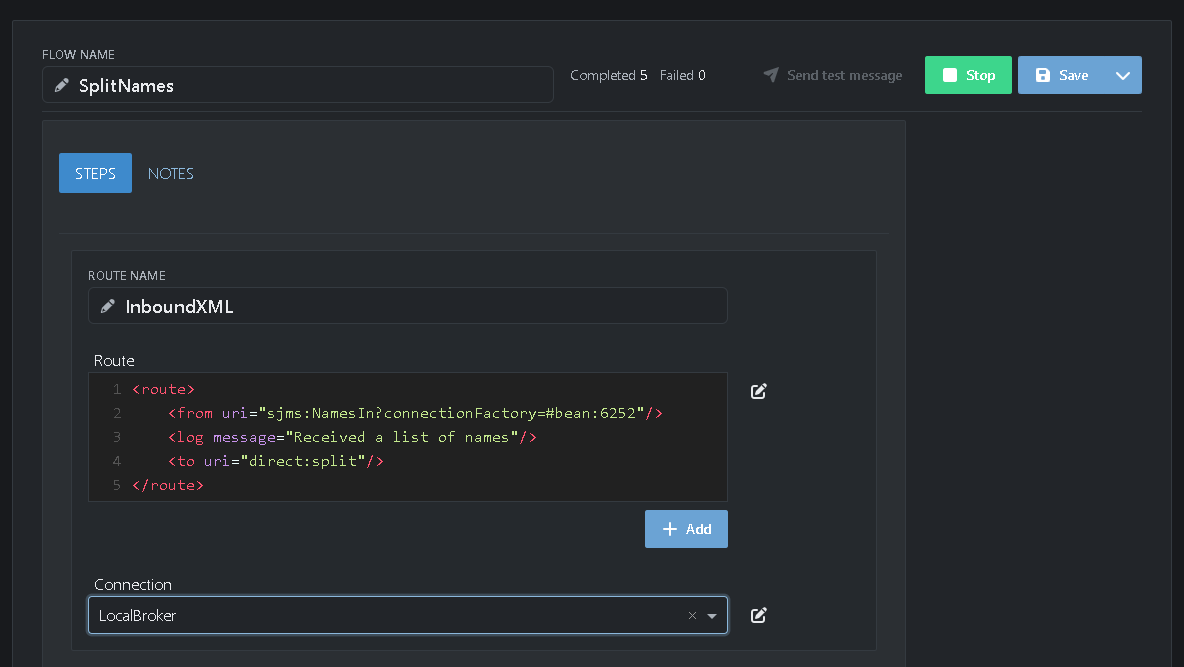
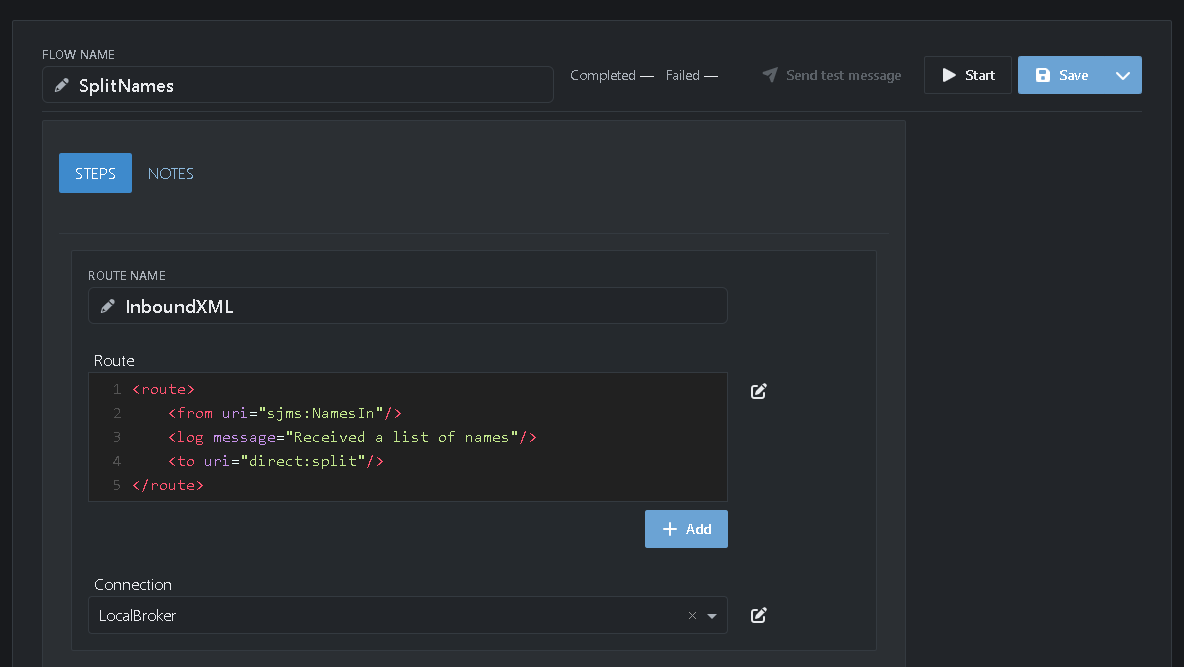
Update v6 Tutorials 5-10 after re-running them
- Tutorial 5 is now "Manage the broker": the Gateway creates the
  broker on first start, so it shows the broker's status and stats,
  stopping and starting it and its broker.xml instead of deleting and
  creating it; deleting a queue with messages now asks to confirm
- Tutorial 7: filter the log on "Received file names", as the route
  itself also contains "Received file"
- Tutorial 8: a route's JMS endpoints use the connection chosen for
  the route, so the connection id and #bean: are gone
- Tutorial 9 (Running scripts) is new: a Scheduler with a Simple and
  a Groovy script
- Tutorial 10: start a Flow with /install, which also works after a
  restart of the Gateway; explain the stats counters
- New screenshots for the counters, the log viewer and the routes

diff --git a/tutorials/v6/tutorial5/README.md b/tutorials/v6/tutorial5/README.md
@@ -1,21 +1,22 @@
-# Tutorial 5: Create a new broker
+# Tutorial 5: Manage the broker
 
-The Gateway has a message broker built in. In this tutorial you get to know it: you create a broker, add a queue, send a message to it and read the message back.
+The Gateway has a message broker built in, and creates one for you the first time it starts. In this tutorial you get to know it: you check that it runs, stop and start it, look at its configuration file, add a queue, send a message to it and read the message back.
 
 **What you'll do:**
 
 1. Look at the broker that comes with the Gateway
-2. Remove it and create a new one
-3. Create a queue
-4. Send a message to the queue
-5. Browse the message
+2. Stop and start the broker
+3. Look at the broker file
+4. Create a queue
+5. Send a message to the queue
+6. Browse the message
 
 It takes about 10 minutes.
 
 ## Before you start
 
 * Complete the [Quick start](https://github.com/assimbly/gateway/wiki/quick-start). You only need the Gateway running.
-* Use a Gateway you're trying out. In this tutorial you remove the broker and create it again. Don't do that on a Gateway that handles real messages.
+* Use a Gateway you're trying out. In this tutorial you stop the broker for a moment. Don't do that on a Gateway that handles real messages.
 
 ## How it works
 
@@ -30,46 +31,58 @@ A **broker** is a message server. Instead of sending a message straight to anoth
 
 ## Step 1: Look at the broker that comes with the Gateway
 
-Go to **Broker → Manage**. When the Gateway starts for the first time, it creates a broker called *default* for you:
+Go to **Broker → Manage**. When the Gateway starts for the first time, it creates a broker called *default* for you: an ActiveMQ Artemis broker that starts by itself whenever the Gateway starts.
 
 ![The default broker](01-broker-manage.png)
 
-* The green buttons under **Status** show that the broker is running. With them you can **Stop** and **Restart** the broker.
-* **Messages** shows how many messages are waiting on the broker, over all its queues.
-* Click **Edit** to see its settings, or **⋮** → **Info** for a short summary.
+* The green buttons under **Status** show that the broker is running.
+* **Consumers** shows how many receivers are connected, for example running Flows that read from a queue. **Messages** shows how many messages are waiting, over all queues.
+* Click the **Stats** icon for details such as the broker version, its uptime and the number of connections:
 
-## Step 2: Remove the broker
+![The broker stats](02-broker-stats.png)
 
-Suppose you want to start over, or switch to the other type of broker. Then you remove the broker and create a new one:
+* Click **⋮** (*More actions*) → **Info** for a short summary of the broker's settings.
 
-1. Click **⋮** (*More actions*) in the row of *default* and choose **Delete**.
-2. Confirm with **Delete**.
+## Step 2: Stop and start the broker
 
-The page is now empty and invites you to add your first broker:
+1. Click **Stop** (the square) under **Status**.
 
-![Add your first Broker](02-add-first-broker.png)
+The broker stops. Only the **Start** button (the triangle) is left, and **Stats** is empty. While the broker is stopped, no one can put messages on it or take them off: Flows that use a queue fail until the broker is back.
 
-## Step 3: Create a new broker
+2. Click **Start**.
 
-1. Click **Add**.
-2. Fill in the form:
-   * **Name:** `default`
-   * **Autostart:** `true`. The broker then starts by itself whenever the Gateway starts.
-   * **Type:** `ActiveMQ Artemis`. This is the default; choose `ActiveMQ Classic` if you need the older broker.
-   * **Configuration Type:** `File`. The broker uses the configuration file shown under **Configuration**.
-   * **Configuration:** keep the example. It's a working `broker.xml` for Artemis.
+After a few seconds the green buttons are back. The messages that were waiting are still there: the broker keeps them on disk.
 
-![Create the broker](03-create-broker.png)
+> **Restart** (the circular arrows) stops the broker and starts it again in one go. You need it after you change the broker file, as you'll see in the next step.
 
-3. Click **Save**.
+## Step 3: Look at the broker file
 
-The broker appears in the list again, with green **Status** buttons: it's running.
+1. Click **Edit** in the row of *default*.
 
-> **Embedded or File?** **Embedded** starts a simple broker on localhost without a configuration file. It's handy for a quick test. **File** gives you full control: the **Configuration** field holds the broker file (`broker.xml` for Artemis, `activemq.xml` for Classic). If you leave it empty, the Gateway creates a default file. See the [Artemis](https://activemq.apache.org/components/artemis/documentation/latest/configuration-index.html) or [ActiveMQ Classic](https://activemq.apache.org/components/classic/documentation) documentation for all settings.
+![The broker file](03-broker-file.png)
+
+The form shows the broker's settings:
+
+* **Autostart** `true`: the broker starts whenever the Gateway starts.
+* **Type** `ActiveMQ Artemis`. The other option is `ActiveMQ Classic`.
+* **Configuration Type** `File`: the broker uses the configuration file below.
+* **Configuration**: the broker file itself, `broker.xml`. The Gateway keeps it in the `broker` folder of its home folder (`~/.assimbly/broker/broker.xml`).
+
+Some useful parts of the file:
+
+| Element | What it sets |
+|---------|--------------|
+| `<acceptors>` | The ports clients connect to, for example `61616` for JMS (the port you'll use in [Tutorial 6](https://github.com/assimbly/gateway/wiki/tutorial6-message-queueing)) and `5672` for AMQP. |
+| `<address-settings>` | What happens to messages that can't be delivered or expire, for example which dead letter queue they go to. |
+| `<addresses>` | Queues that always exist, such as `DLQ` (the dead letter queue) and `ExpiryQueue`. |
+
+To change the broker, edit the file and click **Save**. The Gateway checks that the file is valid before it saves it. The broker reads the file when it starts, so click **Restart** on **Broker → Manage** afterwards. For now, click **Cancel** without changing anything.
+
+> **Embedded or File?** **Embedded** starts a simple broker on localhost without a configuration file. It's handy for a quick test. **File** gives you full control. See the [Artemis](https://activemq.apache.org/components/artemis/documentation/latest/configuration-index.html) or [ActiveMQ Classic](https://activemq.apache.org/components/classic/documentation) documentation for all settings.
 
 ## Step 4: Create a queue
 
-1. Go to **Broker → Endpoints**. The **Queues** tab lists the queues on the broker. The example configuration already defines two: `DLQ` (the dead letter queue) and `ExpiryQueue`.
+1. Go to **Broker → Endpoints**. The **Queues** tab lists the queues on the broker. The broker file already defines two: `DLQ` (the dead letter queue) and `ExpiryQueue`.
 2. Click **Add**.
 3. Set **Name** to `HelloQueue`.
 
@@ -107,18 +120,18 @@ Browsing only *looks* at the messages: they stay on the queue until a receiver p
 
 ## Clean up (optional)
 
-Want to remove *HelloQueue*? In **Broker → Endpoints**, click **⋮** in its row and:
+Want to remove *HelloQueue*? In **Broker → Endpoints**, click **⋮** in its row and choose **Delete**. The queue still holds your message, so the Gateway asks you to confirm: deleting the queue deletes its messages too.
 
-1. Choose **Clear** to remove its messages.
-2. Choose **Delete** to remove the queue.
+To keep the queue but remove its messages, choose **Clear** instead.
 
 ## Summary
 
 | What | Where | What it does |
 |------|-------|--------------|
-| Broker | **Broker → Manage** | The message server. Start, stop, edit or create it here. |
+| Broker | **Broker → Manage** | The message server. Start, stop, restart and check it here. |
+| Broker file | **Edit** on **Broker → Manage** | The broker's configuration (`broker.xml`). Restart the broker after you change it. |
 | Queue | **Broker → Endpoints** | A named place where messages wait. Add, browse, clear or delete it here. |
 | Send | **Broker → Send** (or **Send** in a queue's row) | Puts a test message on a queue or topic. |
 | Browse | Click a queue in **Broker → Endpoints** | Shows the waiting messages, without removing them. |
 
-**Done!** You created a broker and sent your first message through it. Continue with [Tutorial 6: Message Queueing](https://github.com/assimbly/gateway/wiki/tutorial6-message-queueing).
+**Done!** You know your way around the broker and sent your first message through it. Continue with [Tutorial 6: Message Queueing](https://github.com/assimbly/gateway/wiki/tutorial6-message-queueing).

diff --git a/tutorials/v6/tutorial9/README.md b/tutorials/v6/tutorial9/README.md
@@ -1,0 +1,118 @@
+# Tutorial 9: Running scripts
+
+Sometimes a few lines of code are quicker than a Flow of Steps. A **Script** Flow runs your own script: in Camel's Simple language, Groovy, JavaScript, JSLT or XSLT. In this tutorial you build a small clock: every 10 seconds one script writes a greeting with the current time, and a second script saves it to a file.
+
+**What you'll do:**
+
+1. Create a Script Flow
+2. Set the Source that triggers the scripts
+3. Write a script in Simple
+4. Add a script in Groovy
+5. Start the Flow and read the result
+
+It takes about 10 minutes.
+
+## Before you start
+
+* Complete the [Quick start](https://github.com/assimbly/gateway/wiki/quick-start). You need the Gateway running and the folder `C:/messages/out`.
+
+> On Linux or macOS, use `/home/<you>/messages/...` wherever this tutorial says `C:/messages/...`.
+
+## How it works
+
+A Script Flow has three parts:
+
+| Part | What it does |
+|------|--------------|
+| **Source** | Starts the Flow, like in a visual Flow. A new Script Flow starts with a **Scheduler**. |
+| **Script** | Runs your script. The result of the script becomes the message. Add more Scripts to run them one after another: each Script gets the message the one before it made. |
+| **Error handler** | Takes care of a message when a script fails. By default it writes the error to the Gateway log. |
+
+A Script Flow has no Sink. When the last script is done, the message is done. To send the result somewhere, the script does it itself, as the second script in this tutorial does.
+
+The Flow you build looks like this:
+
+**Scheduler (Source)** → **Simple (Script)** → **Groovy (Script)**
+
+## Step 1: Create a Script Flow
+
+1. Go to **Flows → Manage** and click **Add**.
+2. Choose **Script**.
+
+![Add a Script Flow](01-add-flow.png)
+
+The script editor opens. Like the route editor of [Tutorial 7](https://github.com/assimbly/gateway/wiki/tutorial6-simple-route), it has a form instead of a canvas.
+
+## Step 2: Set the Source
+
+1. Next to **Flow name**, type `Clock`.
+2. Under **Source**, keep **Component** on **Scheduler**.
+3. Set **Path** to `clock`. This is just a name for the scheduler.
+4. Under **Options**, choose **Delay** in the list and type `10000`.
+
+![The Source](02-source.png)
+
+The delay is in milliseconds, so the scripts run once every 10 seconds. You know the Scheduler from [Tutorial 3](https://github.com/assimbly/gateway/wiki/tutorial6-calling-a-rest-api).
+
+## Step 3: Write a script in Simple
+
+1. Under **Script**, set **Language** to `simple`.
+2. Type this in the **Script** field:
+
+   ```
+   Hello from Assimbly! The time is ${date:now:HH:mm:ss}
+   ```
+
+[Simple](https://camel.apache.org/components/latest/languages/simple-language.html) is Camel's own small expression language. The text is copied as it is, and every `${...}` is replaced: `${date:now:HH:mm:ss}` by the current time. The result, for example `Hello from Assimbly! The time is 14:05:10`, becomes the message.
+
+## Step 4: Add a script in Groovy
+
+1. Click **Add** under the script and choose **Script**. A second **Script** appears.
+2. Set its **Language** to `groovy`.
+3. Type this in its **Script** field:
+
+   ```groovy
+   new File("C:/messages/out/clock.txt").text = body
+   body
+   ```
+
+![The two scripts](03-scripts.png)
+
+[Groovy](https://groovy-lang.org/) is a programming language for the Java platform. In a script, `body` is the message: the greeting the Simple script made. The first line writes it to the file `clock.txt`. The second line, `body`, is the result of the script, so the message stays the same.
+
+4. Click **Save**.
+
+> **Which language?** Use **simple** to build text from the message and its headers, **groovy** or **javascript** when you need real code, **jslt** to transform JSON and **xslt** to transform XML.
+
+## Step 5: Start the Flow and read the result
+
+1. Click **Start**.
+
+The first run starts a second after you start the Flow. After that, the **Completed** counter goes up every 10 seconds:
+
+![The Flow is running](04-flow-running.png)
+
+2. Open `clock.txt` in the `C:\messages\out` folder:
+
+   ```
+   Hello from Assimbly! The time is 14:05:10
+   ```
+
+Open it again a little later: the time has changed.
+
+**Try it yourself:**
+
+* Add the date: change the Simple script to `Hello from Assimbly! It is ${date:now:yyyy-MM-dd HH:mm:ss}`. Save the Flow, then click **Stop** and **Start** to run it with the new script.
+* Break the Groovy script on purpose, for example by writing to a folder that doesn't exist. The **Failed** counter goes up and an **Alert** badge appears. See [Tutorial 1](https://github.com/assimbly/gateway/wiki/tutorial6-debugging-a-flow) for finding the error.
+
+When you're done, click **Stop**. Otherwise the Flow keeps writing the file every 10 seconds.
+
+## Summary
+
+| Step | Language | What it does |
+|------|----------|--------------|
+| Source | **Scheduler** | Starts the Flow every 10 seconds (**Delay** `10000`). |
+| Script | **simple** | Makes the greeting with the current time. The result becomes the message. |
+| Script | **groovy** | Writes the message (`body`) to `clock.txt` and keeps it as the result. |
+
+**Done!** You ran your first scripts. In the last tutorial you control the Gateway without the browser: [Tutorial 10: Using the API](https://github.com/assimbly/gateway/wiki/tutorial6-using-the-api).

diff --git a/tutorials/v6/tutorial10/README.md b/tutorials/v6/tutorial10/README.md
@@ -74,21 +74,27 @@ Under **Response body** you see the answer. The `message` is the status of the F
 
 Use the token from Step 2. Replace `1051` with the id of your *TestFlow*.
 
+The Gateway keeps your Flows in its database, and runs them in its *runtime*. To start a Flow from the API, you hand the runtime the Flow's configuration: first fetch the configuration from the Gateway, then send it to the `install` endpoint. `install` loads the Flow into the runtime and starts it.
+
 **Windows (PowerShell)**
 
 ```powershell
-(Invoke-RestMethod -Uri http://localhost:8088/api/integration/flow/1051/start -Headers $headers).flow.message
+$config = (Invoke-WebRequest -UseBasicParsing -Uri http://localhost:8088/api/environment/1/flow/1051 -Headers @{ Authorization = $headers.Authorization; Accept = 'application/xml'; PlaceholderReplacement = 'true' }).Content
+(Invoke-RestMethod -Method Post -Uri http://localhost:8088/api/integration/flow/1051/install -Headers $headers -ContentType 'application/xml; charset=utf-8' -Body $config).flow.message
 Invoke-RestMethod -Uri http://localhost:8088/api/integration/flow/1051/status -Headers $headers
 ```
 
 **Linux / macOS**
 
 ```bash
-curl -H "Authorization: Bearer $TOKEN" http://localhost:8088/api/integration/flow/1051/start
+curl -s -H "Authorization: Bearer $TOKEN" -H "Accept: application/xml" -H "PlaceholderReplacement: true" http://localhost:8088/api/environment/1/flow/1051 -o testflow.xml
+curl -X POST -H "Authorization: Bearer $TOKEN" -H "Content-Type: application/xml" -H "Accept: application/json" --data-binary @testflow.xml http://localhost:8088/api/integration/flow/1051/install
 curl -H "Authorization: Bearer $TOKEN" http://localhost:8088/api/integration/flow/1051/status
 ```
 
-The `start` call answers with a report that contains the message `Started flow successfully`. The `status` call answers `started`.
+The `install` call answers with a report that contains the message `Started flow successfully`. The `status` call answers `started`.
+
+> **Why not just `start`?** `start` only starts a Flow that the runtime already knows: a Flow that was installed since the Gateway started, for example by clicking **Start** in the browser. After a restart of the Gateway, `start` answers `Flow not found` for such a Flow. `install` always works, because it brings the configuration along.
 
 Now look in the browser: **Flows → Manage** shows *TestFlow* as running, although you never clicked **Start**:
 
@@ -108,7 +114,7 @@ Put a file in the `C:\messages\in` folder and see it arrive in the `out` folder,
 curl -H "Authorization: Bearer $TOKEN" http://localhost:8088/api/integration/flow/1051/stats
 ```
 
-The answer contains the same **completed** and **failed** counters you see in the Flow editor.
+The answer contains the **completedTransactions** and **failedTransactions** counters: the same numbers you see in the Flow editor, one per message. The **completed** and **failed** fields count the Steps that processed a message, so they're higher when a Flow has more than one Step.
 
 Finally, stop the Flow:
 
@@ -130,15 +136,16 @@ It answers with the message `Stopped flow successfully`.
 
 ## Useful endpoints
 
-All endpoints below start with `http://localhost:8088/api/integration/flow/{flowId}/` and use `GET`:
+All endpoints below start with `http://localhost:8088/api/integration/flow/{flowId}/` and use `GET`, except `install`:
 
 | Endpoint | What it does |
 |----------|--------------|
-| `start` / `stop` | Starts or stops the Flow. |
+| `install` (`POST`) | Loads the Flow's configuration into the runtime and starts it. |
+| `start` / `stop` | Starts or stops a Flow that was installed. |
 | `pause` / `resume` | Pauses the Flow and resumes it later. |
 | `restart` | Stops the Flow and starts it again. |
 | `status` | Tells whether the Flow runs: `started`, or `unconfigured` when it doesn't. |
-| `stats` | The completed and failed counters. |
+| `stats` | The counters: `completedTransactions` and `failedTransactions` per message, `completed` and `failed` per Step. |
 | `uptime` | How long the Flow has been running. |
 | `lasterror` | The last error of the Flow. |
 

diff --git a/tutorials/v6/tutorial8/README.md b/tutorials/v6/tutorial8/README.md
@@ -29,7 +29,7 @@ The Flow *SplitNames* has three routes. They pass messages to each other with `d
 
 You could write it all in one route. Splitting it up keeps each route small, and you can reuse a route, such as *SplitXML*, from other routes.
 
-## Step 1: Create the Flow and look up the connection id
+## Step 1: Create the Flow
 
 1. Go to **Flows → Manage**, click **Add** and choose **Camel route**.
 2. Next to **Flow name**, type `SplitNames`.
@@ -37,24 +37,15 @@ You could write it all in one route. Splitting it up keeps each route small, and
 4. Click **Add** under the route field and choose **Connection**. A **Connection** field appears.
 5. In **Connection**, choose `LocalBroker`.
 
-A route refers to its connection by id. To look the id up:
-
-6. Click the **Edit connection** icon next to the **Connection** field. Write down the **ID**:
-
-![The connection id](01-connection-id.png)
-
-7. Close the window with **Cancel**. Don't click **Save** here.
-8. If the **Connection** field is empty again, choose `LocalBroker` once more.
-
-> In a visual Flow, choosing the connection is enough. In a Camel route you also name it in the URI, with `connectionFactory=#bean:<id>`. That's why you need the id.
+> The JMS endpoints of a route (`sjms:`, `sjms2:`, `jms:` and `activemq:`) use the connection you choose here. Only when an endpoint needs another connection, you name that one in the URI yourself, with `connectionFactory=#<id>`. You find a connection's id with the **Edit connection** icon next to the **Connection** field.
 
 ## Step 2: Write the inbound route
 
-Copy this route into the **Route** field of *InboundXML*. Replace `6252` with the id you wrote down:
+Copy this route into the **Route** field of *InboundXML*:
 
 ```xml
 <route>
-    <from uri="sjms:NamesIn?connectionFactory=#bean:6252"/>
+    <from uri="sjms:NamesIn"/>
     <log message="Received a list of names"/>
     <to uri="direct:split"/>
 </route>
@@ -84,17 +75,17 @@ The `<split>` uses the [XPath](https://camel.apache.org/components/latest/langua
 ## Step 4: Write the outbound route
 
 1. Under *SplitXML*, click **Add** and choose **Route**.
-2. Set **Route name** to `OutboundXML` and copy this route into its **Route** field. Again, replace `6252` with your connection id:
+2. Set **Route name** to `OutboundXML` and copy this route into its **Route** field:
 
 ```xml
 <route>
     <from uri="direct:outbound"/>
     <log message="Sending one name"/>
-    <to uri="sjms:NamesOut?connectionFactory=#bean:6252"/>
+    <to uri="sjms:NamesOut"/>
 </route>
 ```
 
-3. Under *OutboundXML*, click **Add**, choose **Connection** and select `LocalBroker`.
+3. Under *OutboundXML*, click **Add**, choose **Connection** and select `LocalBroker`. Each route uses its own connection, so this route needs one too.
 
 ![The split and outbound routes](03-split-outbound.png)
 

diff --git a/tutorials/v6/tutorial6/README.md b/tutorials/v6/tutorial6/README.md
@@ -15,7 +15,7 @@ It takes about 15 minutes.
 ## Before you start
 
 * Complete the [Quick start](https://github.com/assimbly/gateway/wiki/quick-start). You need the Gateway running and the *TestFlow* that moves files from `C:/messages/in` to `C:/messages/out`.
-* Do [Tutorial 5](https://github.com/assimbly/gateway/wiki/tutorial6-create-a-new-broker) first if you don't know the broker yet. You need a running broker, such as the *default* broker that comes with the Gateway.
+* Do [Tutorial 5](https://github.com/assimbly/gateway/wiki/tutorial6-manage-the-broker) first if you don't know the broker yet. You need a running broker, such as the *default* broker that comes with the Gateway.
 * Make sure *TestFlow* is stopped (see **Flows → Manage**). Otherwise it picks up the files before the new Flows can.
 
 > On Linux or macOS, use `/home/<you>/messages/...` wherever this tutorial says `C:/messages/...`.

diff --git a/tutorials/v6/tutorial4/README.md b/tutorials/v6/tutorial4/README.md
@@ -149,4 +149,4 @@ When you're done, stop the *sayHello* Flow with **Stop** in its editor.
 | Operation `GET /{name}` | **New Operation** | Defines what clients can call. Creates the Handler Flow. |
 | Handler Flow *sayHello* | Flow editor | **Operation** receives the request, **SETBODY** writes the answer, **Response** sends it back with status 200. |
 
-**Done!** You created your first REST API. Continue with [Tutorial 5: Create a new broker](https://github.com/assimbly/gateway/wiki/tutorial6-create-a-new-broker).
+**Done!** You created your first REST API. Continue with [Tutorial 5: Manage the broker](https://github.com/assimbly/gateway/wiki/tutorial6-manage-the-broker).

diff --git a/tutorials/v6/tutorial7/README.md b/tutorials/v6/tutorial7/README.md
@@ -91,7 +91,7 @@ The route picks up the file and moves it to the `C:\messages\out` folder. The **
 ## Step 4: Find the log message
 
 1. Go to **Administration → Log viewer**.
-2. Type `Received file` in the search box.
+2. Type `Received file names` in the filter box.
 
 ![The log message](04-log-viewer.png)
 
